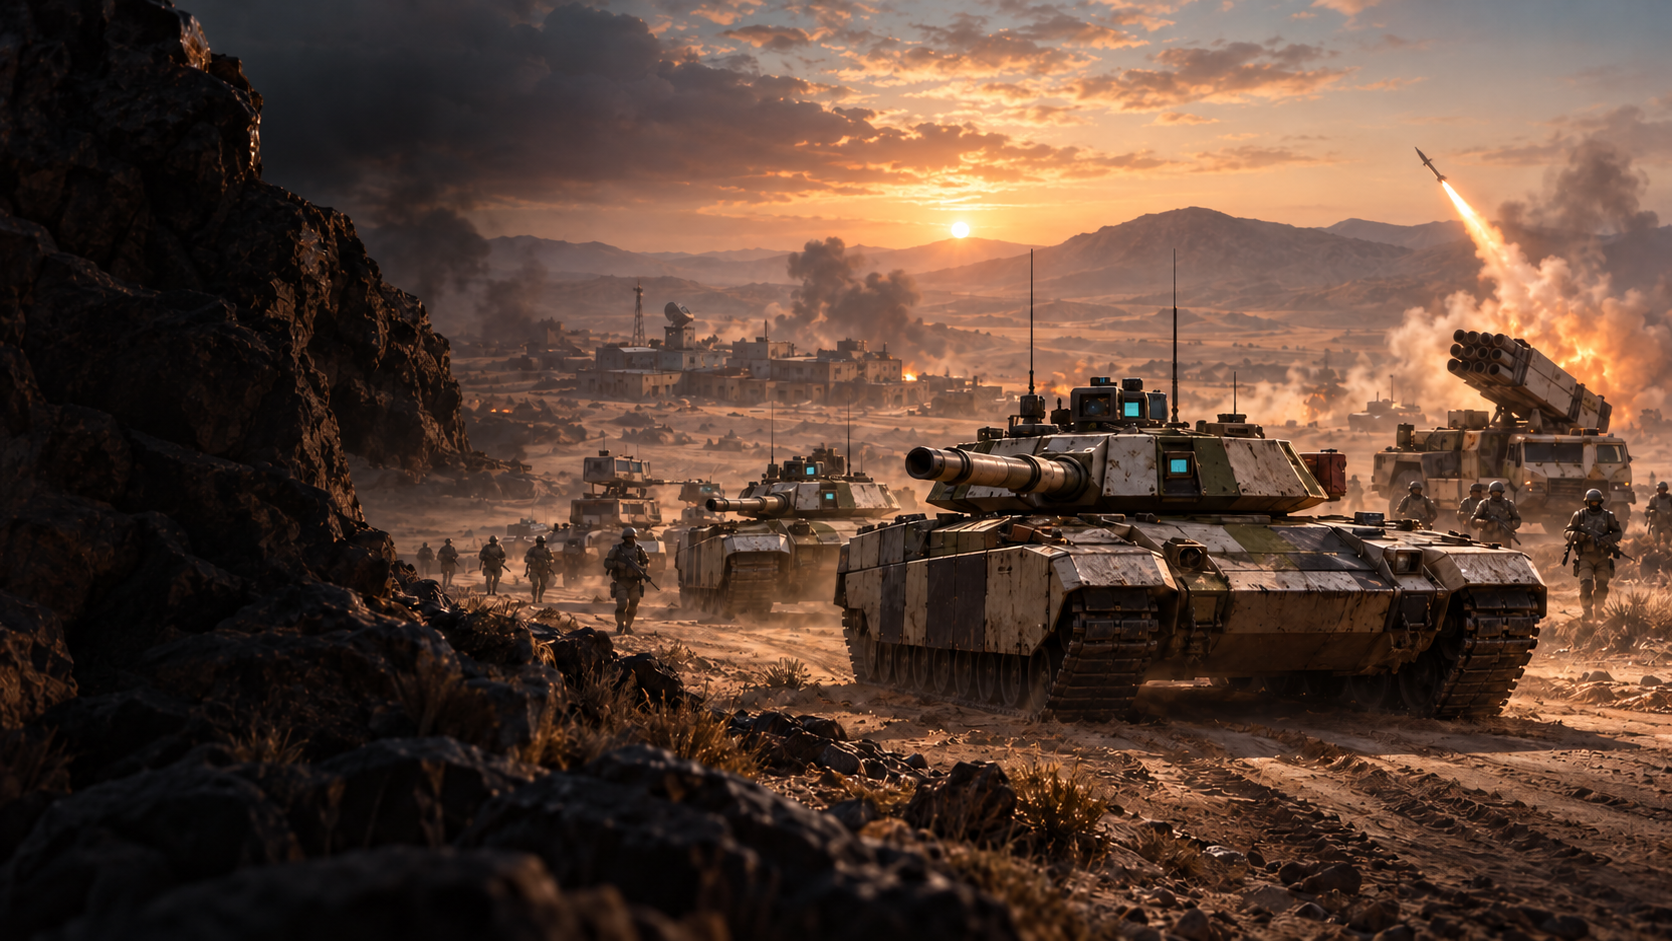
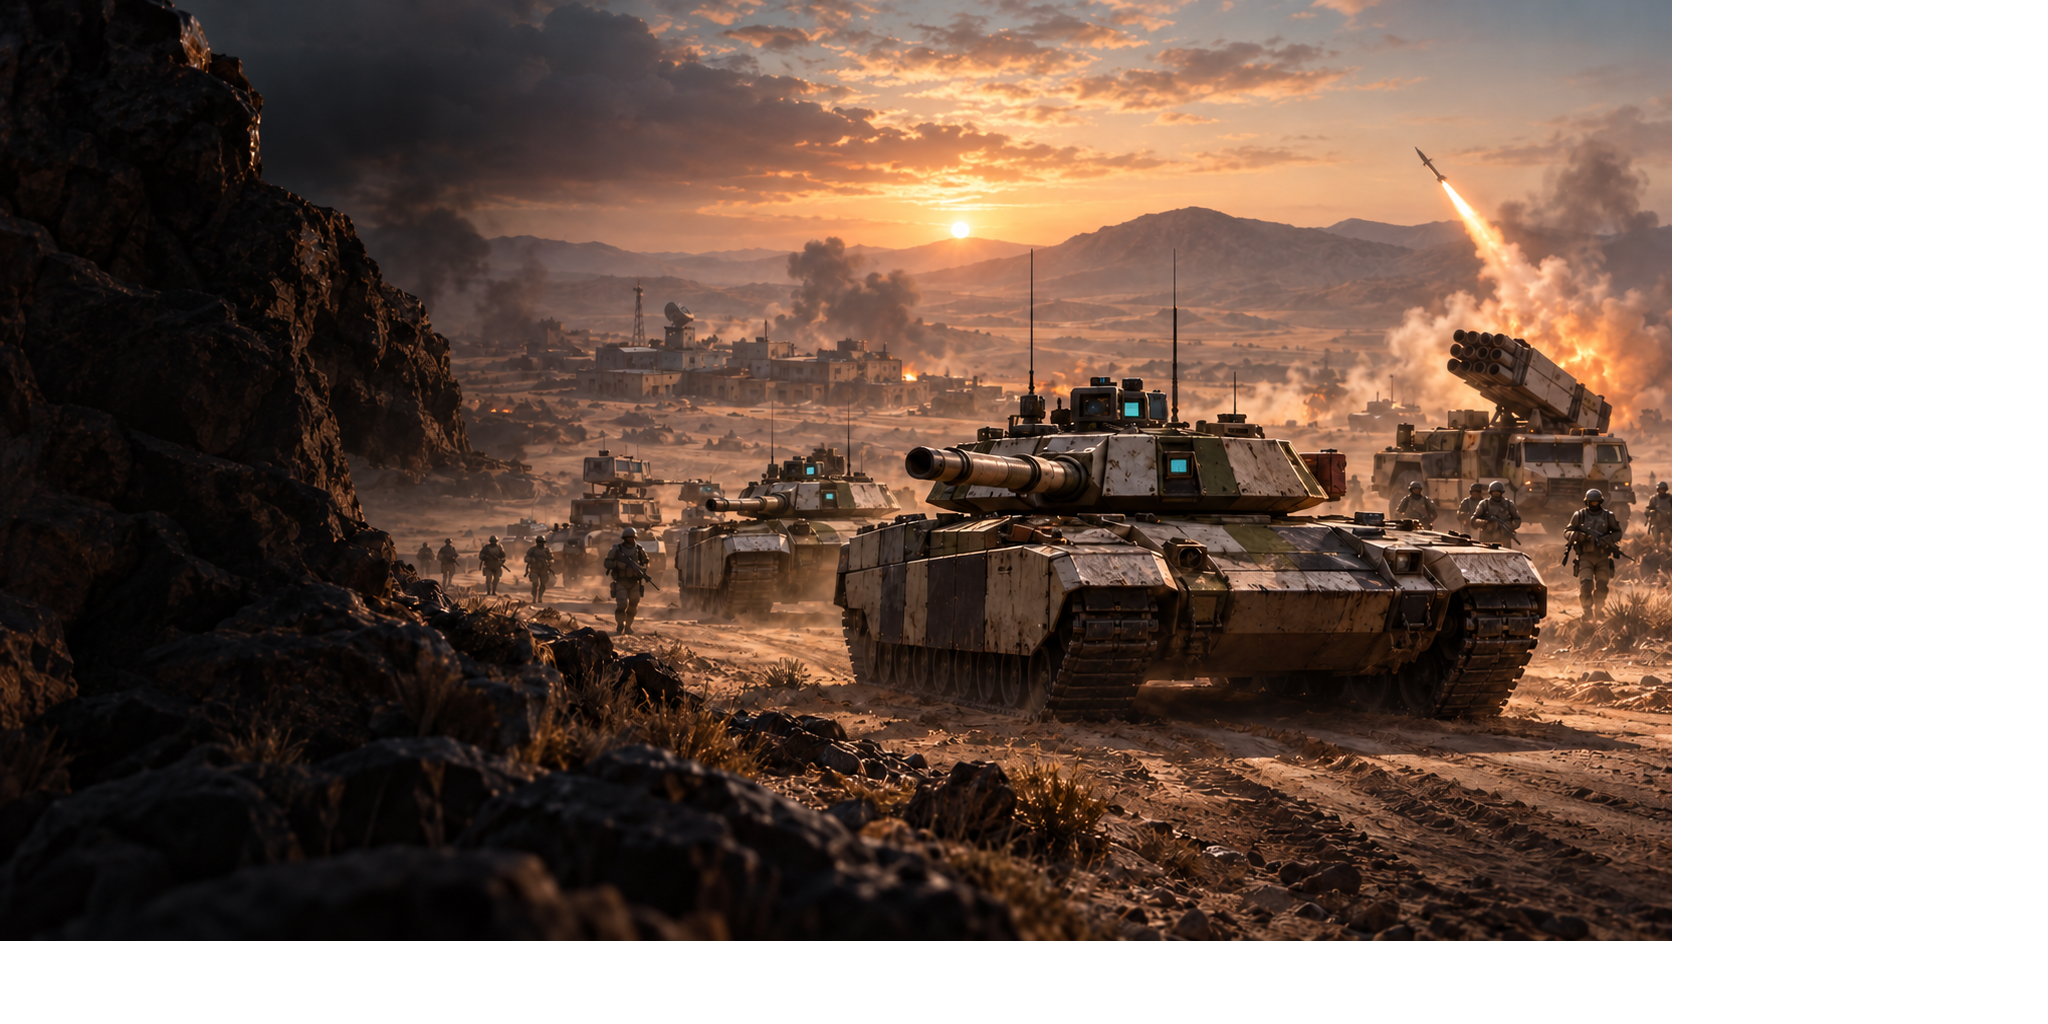
Pack Frontline textures without changing original artwork pixels

diff --git a/tools/recovery-smoke.py b/tools/recovery-smoke.py
@@ -3,13 +3,13 @@ from pathlib import Path
 import argparse,subprocess,os,time,json,sys,contextlib,shutil
 ROOT=Path(__file__).resolve().parents[1]
 def main():
- p=argparse.ArgumentParser();p.add_argument('--engine',type=Path,required=True);p.add_argument('--mod',default='rtsai');p.add_argument('--screen',default='home');p.add_argument('--seconds',type=int,default=25);p.add_argument('--map');p.add_argument('--bots',default='Multi0:normal:china,Multi1:normal:iran');p.add_argument('--content',type=Path);p.add_argument('--out',type=Path,required=True);p.add_argument('--art-tools',type=Path,required=True);p.add_argument('--leave-open',action='store_true');a=p.parse_args()
+ p=argparse.ArgumentParser();p.add_argument('--engine',type=Path,required=True);p.add_argument('--mod',default='rtsai');p.add_argument('--screen',default='home');p.add_argument('--seconds',type=int,default=25);p.add_argument('--map');p.add_argument('--bots',default='Multi0:normal:china,Multi1:normal:iran');p.add_argument('--content',type=Path);p.add_argument('--out',type=Path,required=True);p.add_argument('--art-tools',type=Path,required=True);p.add_argument('--leave-open',action='store_true');p.add_argument('--size',default='1440,900');p.add_argument('--ui-scale',default='1');a=p.parse_args();a.engine=a.engine.resolve();a.out=a.out.resolve();a.art_tools=a.art_tools.resolve()
  data_root=a.engine if (a.engine/'recovery-build.json').exists() else ROOT
  a.out.mkdir(parents=True,exist_ok=True);support=a.out/'support';support.mkdir(exist_ok=True)
  if a.content and not (support/'Content').exists():shutil.copytree(a.content,support/'Content')
  sys.path.insert(0,str(a.art_tools));import route_lock
  env=dict(os.environ);env.update(OPENRA_AI_HOST='0',OPENRA_AI_COMPANION='0',OPENRA_AI_DISABLE_AUTOSTART='1',RTSAI_RECOVERY_SCREEN=a.screen)
- args=[str(a.engine/'bin/OpenRA.exe'),f'Engine.EngineDir={a.engine}',f'Engine.ModSearchPaths={data_root / "mods"},{a.engine / "mods"}',f'Engine.SupportDir={support}',f'Game.Mod={a.mod}','Game.FetchNews=false','Game.IntroductionPromptVersion=99','Debug.SystemInformationVersionPrompt=99','Graphics.Mode=Windowed','Graphics.WindowedSize=1440,900','Graphics.UIScale=1','Game.ViewportEdgeScroll=false','Sound.Mute=true']
+ args=[str(a.engine/'bin/OpenRA.exe'),f'Engine.EngineDir={a.engine}',f'Engine.ModSearchPaths={data_root / "mods"},{a.engine / "mods"}',f'Engine.SupportDir={support}',f'Game.Mod={a.mod}','Game.FetchNews=false','Game.IntroductionPromptVersion=99','Debug.SystemInformationVersionPrompt=99','Graphics.Mode=Windowed',f'Graphics.WindowedSize={a.size}',f'Graphics.UIScale={a.ui_scale}','Game.ViewportEdgeScroll=false','Sound.Mute=true']
  if a.map:
   source=next((p/a.map for p in [data_root/'mods'/a.mod/'maps',data_root/'mods'/a.mod/'standalone/maps',data_root/'mods'/a.mod/'campaigns/maps'] if (p/a.map).exists()),None)
   if source is None:raise ValueError('Map not found: '+a.map)

diff --git a/tools/frontline-textures.py b/tools/frontline-textures.py
@@ -1,0 +1,19 @@
+"""Pack original generated pixels into engine-compatible power-of-two sheets.
+
+This only adds transparent padding. No source pixel is resized, retouched or lost;
+chrome regions retain the original coordinates. Keep sources and prompts together.
+"""
+from pathlib import Path
+from PIL import Image
+
+ROOT = Path(__file__).resolve().parents[1]
+
+for name in ("backdrop", "controls", "icons"):
+    source = ROOT / "docs/frontline-menu-assets" / f"{name}-source.png"
+    with Image.open(source) as image:
+        width, height = image.size
+        sheet = Image.new("RGBA", (1 << (width - 1).bit_length(), 1 << (height - 1).bit_length()))
+        sheet.paste(image.convert("RGBA"), (0, 0))
+        destination = ROOT / "mods/rtsai/uibits/frontline" / f"{name}.png"
+        sheet.save(destination)
+        print(f"{name}: {width}x{height} in {sheet.width}x{sheet.height}")
